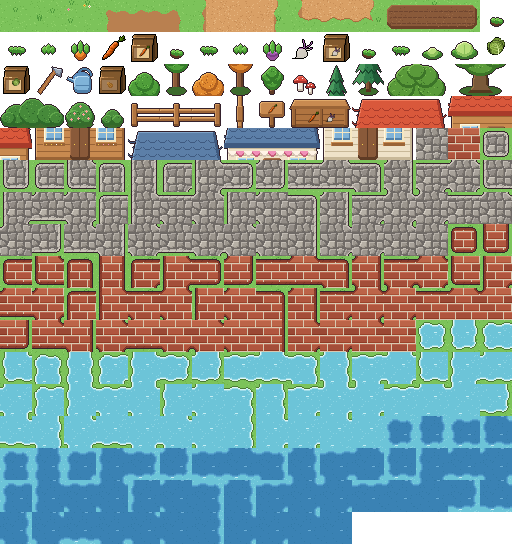
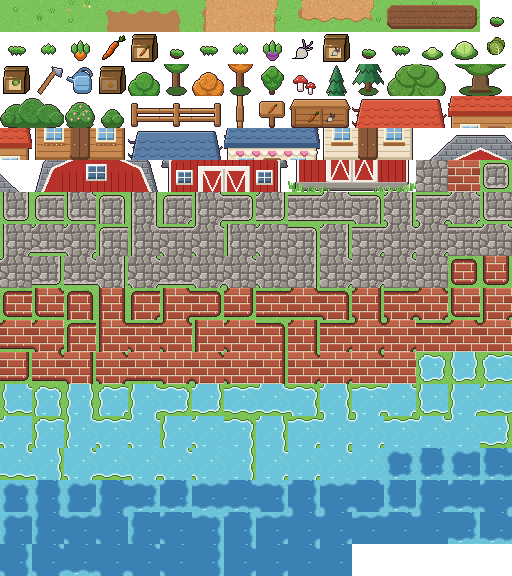
Add a red barn with white trim, grey shingles and grass tufts at its base
Claude-Session: https://claude.ai/code/session_01JZv9D8eG6iRnc3yJzRKhZf

diff --git a/src/art-index.js b/src/art-index.js
@@ -1,2 +1,2 @@
 // Generated by tools/make_art.py: tile names -> index in assets/art/world.png (16 columns of 32x32).
-export const A = {"grass0": 0, "grass1": 1, "grass2": 2, "path0": 3, "path1": 4, "path2": 5, "path3": 6, "path4": 7, "path5": 8, "path6": 9, "path7": 10, "path8": 11, "soil0": 12, "soil1": 13, "soil2": 14, "carrot0": 15, "carrot1": 16, "carrot2": 17, "carrot3": 18, "carrot_item": 19, "carrot_packet": 20, "turnip0": 21, "turnip1": 22, "turnip2": 23, "turnip3": 24, "turnip_item": 25, "turnip_packet": 26, "cabbage0": 27, "cabbage1": 28, "cabbage2": 29, "cabbage3": 30, "cabbage_item": 31, "cabbage_packet": 32, "hoe": 33, "can": 34, "bag": 35, "tree_green_0": 36, "tree_green_1": 37, "tree_orange_0": 38, "tree_orange_1": 39, "tree": 40, "mushrooms": 41, "pine_0": 42, "pine_1": 43, "oak_0": 44, "oak_1": 45, "oak_2": 46, "oak_3": 47, "shrub_large_0": 48, "shrub_large_1": 49, "shrub_flower": 50, "shrub_small": 51, "fence0": 52, "fence1": 53, "fence2": 54, "fence3": 55, "sign": 56, "bin_0": 57, "bin_1": 58, "house_0": 59, "house_1": 60, "house_2": 61, "house_3": 62, "house_4": 63, "house_5": 64, "house_6": 65, "house_7": 66, "house_8": 67, "shop_0": 68, "shop_1": 69, "shop_2": 70, "shop_3": 71, "shop_4": 72, "shop_5": 73, "shop_6": 74, "shop_7": 75, "shop_8": 76, "cobble0": 77, "brick0": 78, "cobbleb0": 79, "cobbleb1": 80, "cobbleb2": 81, "cobbleb3": 82, "cobbleb4": 83, "cobbleb5": 84, "cobbleb6": 85, "cobbleb7": 86, "cobbleb8": 87, "cobbleb9": 88, "cobbleb10": 89, "cobbleb11": 90, "cobbleb12": 91, "cobbleb13": 92, "cobbleb14": 93, "cobbleb15": 94, "cobbleb16": 95, "cobbleb17": 96, "cobbleb18": 97, "cobbleb19": 98, "cobbleb20": 99, "cobbleb21": 100, "cobbleb22": 101, "cobbleb23": 102, "cobbleb24": 103, "cobbleb25": 104, "cobbleb26": 105, "cobbleb27": 106, "cobbleb28": 107, "cobbleb29": 108, "cobbleb30": 109, "cobbleb31": 110, "cobbleb32": 111, "cobbleb33": 112, "cobbleb34": 113, "cobbleb35": 114, "cobbleb36": 115, "cobbleb37": 116, "cobbleb38": 117, "cobbleb39": 118, "cobbleb40": 119, "cobbleb41": 120, "cobbleb42": 121, "cobbleb43": 122, "cobbleb44": 123, "cobbleb45": 124, "cobbleb46": 125, "brickb0": 126, "brickb1": 127, "brickb2": 128, "brickb3": 129, "brickb4": 130, "brickb5": 131, "brickb6": 132, "brickb7": 133, "brickb8": 134, "brickb9": 135, "brickb10": 136, "brickb11": 137, "brickb12": 138, "brickb13": 139, "brickb14": 140, "brickb15": 141, "brickb16": 142, "brickb17": 143, "brickb18": 144, "brickb19": 145, "brickb20": 146, "brickb21": 147, "brickb22": 148, "brickb23": 149, "brickb24": 150, "brickb25": 151, "brickb26": 152, "brickb27": 153, "brickb28": 154, "brickb29": 155, "brickb30": 156, "brickb31": 157, "brickb32": 158, "brickb33": 159, "brickb34": 160, "brickb35": 161, "brickb36": 162, "brickb37": 163, "brickb38": 164, "brickb39": 165, "brickb40": 166, "brickb41": 167, "brickb42": 168, "brickb43": 169, "brickb44": 170, "brickb45": 171, "brickb46": 172, "shallow0": 173, "shallow1": 174, "shallow2": 175, "shallow3": 176, "shallow4": 177, "shallow5": 178, "shallow6": 179, "shallow7": 180, "shallow8": 181, "shallow9": 182, "shallow10": 183, "shallow11": 184, "shallow12": 185, "shallow13": 186, "shallow14": 187, "shallow15": 188, "shallow16": 189, "shallow17": 190, "shallow18": 191, "shallow19": 192, "shallow20": 193, "shallow21": 194, "shallow22": 195, "shallow23": 196, "shallow24": 197, "shallow25": 198, "shallow26": 199, "shallow27": 200, "shallow28": 201, "shallow29": 202, "shallow30": 203, "shallow31": 204, "shallow32": 205, "shallow33": 206, "shallow34": 207, "shallow35": 208, "shallow36": 209, "shallow37": 210, "shallow38": 211, "shallow39": 212, "shallow40": 213, "shallow41": 214, "shallow42": 215, "shallow43": 216, "shallow44": 217, "shallow45": 218, "shallow46": 219, "deep0": 220, "deep1": 221, "deep2": 222, "deep3": 223, "deep4": 224, "deep5": 225, "deep6": 226, "deep7": 227, "deep8": 228, "deep9": 229, "deep10": 230, "deep11": 231, "deep12": 232, "deep13": 233, "deep14": 234, "deep15": 235, "deep16": 236, "deep17": 237, "deep18": 238, "deep19": 239, "deep20": 240, "deep21": 241, "deep22": 242, "deep23": 243, "deep24": 244, "deep25": 245, "deep26": 246, "deep27": 247, "deep28": 248, "deep29": 249, "deep30": 250, "deep31": 251, "deep32": 252, "deep33": 253, "deep34": 254, "deep35": 255, "deep36": 256, "deep37": 257, "deep38": 258, "deep39": 259, "deep40": 260, "deep41": 261, "deep42": 262, "deep43": 263, "deep44": 264, "deep45": 265, "deep46": 266};
+export const A = {"grass0": 0, "grass1": 1, "grass2": 2, "path0": 3, "path1": 4, "path2": 5, "path3": 6, "path4": 7, "path5": 8, "path6": 9, "path7": 10, "path8": 11, "soil0": 12, "soil1": 13, "soil2": 14, "carrot0": 15, "carrot1": 16, "carrot2": 17, "carrot3": 18, "carrot_item": 19, "carrot_packet": 20, "turnip0": 21, "turnip1": 22, "turnip2": 23, "turnip3": 24, "turnip_item": 25, "turnip_packet": 26, "cabbage0": 27, "cabbage1": 28, "cabbage2": 29, "cabbage3": 30, "cabbage_item": 31, "cabbage_packet": 32, "hoe": 33, "can": 34, "bag": 35, "tree_green_0": 36, "tree_green_1": 37, "tree_orange_0": 38, "tree_orange_1": 39, "tree": 40, "mushrooms": 41, "pine_0": 42, "pine_1": 43, "oak_0": 44, "oak_1": 45, "oak_2": 46, "oak_3": 47, "shrub_large_0": 48, "shrub_large_1": 49, "shrub_flower": 50, "shrub_small": 51, "fence0": 52, "fence1": 53, "fence2": 54, "fence3": 55, "sign": 56, "bin_0": 57, "bin_1": 58, "house_0": 59, "house_1": 60, "house_2": 61, "house_3": 62, "house_4": 63, "house_5": 64, "house_6": 65, "house_7": 66, "house_8": 67, "shop_0": 68, "shop_1": 69, "shop_2": 70, "shop_3": 71, "shop_4": 72, "shop_5": 73, "shop_6": 74, "shop_7": 75, "shop_8": 76, "barn_0": 77, "barn_1": 78, "barn_2": 79, "barn_3": 80, "barn_4": 81, "barn_5": 82, "barn_6": 83, "barn_7": 84, "barn_8": 85, "barn_9": 86, "barn_10": 87, "barn_11": 88, "barn_12": 89, "barn_13": 90, "barn_14": 91, "barn_15": 92, "cobble0": 93, "brick0": 94, "cobbleb0": 95, "cobbleb1": 96, "cobbleb2": 97, "cobbleb3": 98, "cobbleb4": 99, "cobbleb5": 100, "cobbleb6": 101, "cobbleb7": 102, "cobbleb8": 103, "cobbleb9": 104, "cobbleb10": 105, "cobbleb11": 106, "cobbleb12": 107, "cobbleb13": 108, "cobbleb14": 109, "cobbleb15": 110, "cobbleb16": 111, "cobbleb17": 112, "cobbleb18": 113, "cobbleb19": 114, "cobbleb20": 115, "cobbleb21": 116, "cobbleb22": 117, "cobbleb23": 118, "cobbleb24": 119, "cobbleb25": 120, "cobbleb26": 121, "cobbleb27": 122, "cobbleb28": 123, "cobbleb29": 124, "cobbleb30": 125, "cobbleb31": 126, "cobbleb32": 127, "cobbleb33": 128, "cobbleb34": 129, "cobbleb35": 130, "cobbleb36": 131, "cobbleb37": 132, "cobbleb38": 133, "cobbleb39": 134, "cobbleb40": 135, "cobbleb41": 136, "cobbleb42": 137, "cobbleb43": 138, "cobbleb44": 139, "cobbleb45": 140, "cobbleb46": 141, "brickb0": 142, "brickb1": 143, "brickb2": 144, "brickb3": 145, "brickb4": 146, "brickb5": 147, "brickb6": 148, "brickb7": 149, "brickb8": 150, "brickb9": 151, "brickb10": 152, "brickb11": 153, "brickb12": 154, "brickb13": 155, "brickb14": 156, "brickb15": 157, "brickb16": 158, "brickb17": 159, "brickb18": 160, "brickb19": 161, "brickb20": 162, "brickb21": 163, "brickb22": 164, "brickb23": 165, "brickb24": 166, "brickb25": 167, "brickb26": 168, "brickb27": 169, "brickb28": 170, "brickb29": 171, "brickb30": 172, "brickb31": 173, "brickb32": 174, "brickb33": 175, "brickb34": 176, "brickb35": 177, "brickb36": 178, "brickb37": 179, "brickb38": 180, "brickb39": 181, "brickb40": 182, "brickb41": 183, "brickb42": 184, "brickb43": 185, "brickb44": 186, "brickb45": 187, "brickb46": 188, "shallow0": 189, "shallow1": 190, "shallow2": 191, "shallow3": 192, "shallow4": 193, "shallow5": 194, "shallow6": 195, "shallow7": 196, "shallow8": 197, "shallow9": 198, "shallow10": 199, "shallow11": 200, "shallow12": 201, "shallow13": 202, "shallow14": 203, "shallow15": 204, "shallow16": 205, "shallow17": 206, "shallow18": 207, "shallow19": 208, "shallow20": 209, "shallow21": 210, "shallow22": 211, "shallow23": 212, "shallow24": 213, "shallow25": 214, "shallow26": 215, "shallow27": 216, "shallow28": 217, "shallow29": 218, "shallow30": 219, "shallow31": 220, "shallow32": 221, "shallow33": 222, "shallow34": 223, "shallow35": 224, "shallow36": 225, "shallow37": 226, "shallow38": 227, "shallow39": 228, "shallow40": 229, "shallow41": 230, "shallow42": 231, "shallow43": 232, "shallow44": 233, "shallow45": 234, "shallow46": 235, "deep0": 236, "deep1": 237, "deep2": 238, "deep3": 239, "deep4": 240, "deep5": 241, "deep6": 242, "deep7": 243, "deep8": 244, "deep9": 245, "deep10": 246, "deep11": 247, "deep12": 248, "deep13": 249, "deep14": 250, "deep15": 251, "deep16": 252, "deep17": 253, "deep18": 254, "deep19": 255, "deep20": 256, "deep21": 257, "deep22": 258, "deep23": 259, "deep24": 260, "deep25": 261, "deep26": 262, "deep27": 263, "deep28": 264, "deep29": 265, "deep30": 266, "deep31": 267, "deep32": 268, "deep33": 269, "deep34": 270, "deep35": 271, "deep36": 272, "deep37": 273, "deep38": 274, "deep39": 275, "deep40": 276, "deep41": 277, "deep42": 278, "deep43": 279, "deep44": 280, "deep45": 281, "deep46": 282};

diff --git a/src/map-data.js b/src/map-data.js
@@ -7,7 +7,7 @@ export const EDITOR_KEY = 'farmlife-editor-map';
 
 // Multi-tile objects: size in tiles and how many bottom rows block movement (default: all rows).
 const SIZES = {
-  house: { w: 3, h: 3 }, shop: { w: 3, h: 3 }, bin: { w: 2, h: 1 },
+  house: { w: 3, h: 3 }, shop: { w: 3, h: 3 }, barn: { w: 4, h: 4, solid: 3 }, bin: { w: 2, h: 1 },
   tree_green: { w: 1, h: 2, solid: 1 }, tree_orange: { w: 1, h: 2, solid: 1 },
   pine: { w: 1, h: 2, solid: 1 }, oak: { w: 2, h: 2, solid: 1 }, shrub_large: { w: 2, h: 1 },
 };

diff --git a/tools/make_art.py b/tools/make_art.py
@@ -347,6 +347,51 @@ def building(roof, roof_l, roof_d, wall, wall_l, wall_d, awning=False):
     d.line([(47, 64), (47, 94)], C('#5f3b25')); d.point((53, 80), C('#f6d04d')); d.point((42, 80), C('#f6d04d'))
     return outline(im)
 
+def barn():  # 128x128 red gambrel barn with white trim, grey shingles behind the gable, grass tufts at its base
+    im = new(4 * S, 4 * S); d = ImageDraw.Draw(im)
+    RED, RED_L, RED_D, WH, WH_D = '#b8322c', '#d24a3e', '#86221e', '#f4efe6', '#c8c0b4'
+    # Roof slopes going back from the front gable: a bigger gambrel outline, shingled grey.
+    shape(im, lambda d: d.polygon([(2, 70), (12, 34), (40, 8), (88, 8), (116, 34), (126, 70)]), '#8a8f96', '#a8adb4', '#62676e', 3)
+    roof = {(x, y) for y in range(4 * S) for x in range(4 * S) if im.getpixel((x, y))[:3] == C('#8a8f96')[:3]}
+    for (x, y) in roof:  # shingle rows: a dark seam under each row, a light lip above it, staggered joints
+        r, k = divmod(y - 10, 6)
+        c = '#62676e' if k == 5 else '#9ea3aa' if k == 0 else '#5c6168' if (x + (r % 2) * 5) % 10 == 0 else ('#7e838a' if (x * 7 + r * 3) % 11 == 0 else None)
+        if c: im.putpixel((x, y), C(c))
+    gable = [(10, 122), (10, 64), (20, 40), (64, 20), (108, 40), (118, 64), (118, 122)]
+    shape(im, lambda d: d.polygon(gable), RED, RED_L, RED_D)
+    for x in range(16, 116, 7): d.line([(x, 44 if 24 < x < 104 else 66), (x, 121)], C(RED_D))  # vertical boards
+    for x in range(16, 116, 7):  # clip boards to the gable slope
+        for y in range(18, 66):
+            if im.getpixel((x, y))[:3] == C(RED_D)[:3] and not inside_poly(gable, x, y - 2): im.putpixel((x, y), C(RED))
+    d.line(gable[1:-1], C(WH), 3); d.line([(9, 64), (9, 122)], C(WH), 2); d.line([(118, 64), (118, 122)], C(WH), 2)  # roof trim and corner boards
+    shape(im, lambda d: d.rectangle([8, 118, 119, 125]), '#9a968e', '#b4b0a8', '#706c66', 1)  # stone footing
+    def window(x, y, w, h):
+        shape(im, lambda d: d.rectangle([x, y, x + w, y + h]), WH, '#ffffff', WH_D, 1)
+        shape(im, lambda d: d.rectangle([x + 2, y + 2, x + w - 2, y + h - 2]), '#4f6f8f', '#7fa3c0', '#33506c', 1)
+        d.line([(x + w // 2, y + 2), (x + w // 2, y + h - 2)], C(WH)); d.line([(x + 2, y + h // 2), (x + w - 2, y + h // 2)], C(WH))
+    window(54, 36, 20, 16)  # hayloft
+    window(16, 74, 16, 14); window(96, 74, 16, 14)
+    # Double doors: white frame, white X brace on each leaf.
+    shape(im, lambda d: d.rectangle([38, 70, 89, 118]), WH, '#ffffff', WH_D, 1)
+    for x0 in (41, 65):
+        shape(im, lambda d, x0=x0: d.rectangle([x0, 73, x0 + 21, 117]), RED, RED_L, RED_D, 1)
+        d.line([(x0 + 1, 74), (x0 + 20, 116)], C(WH), 2); d.line([(x0 + 20, 74), (x0 + 1, 116)], C(WH), 2)
+        d.rectangle([x0, 73, x0 + 21, 117], outline=C(WH), width=2)
+    d.line([(63, 73), (63, 117)], C(WH_D), 2)
+    outline(im)
+    # Grass tufts over the base and corners, drawn after the outline so the barn sits in the turf.
+    tr = random.Random(9)
+    def tuft(x, y, n, h):
+        for k in range(n):
+            dx = k - n // 2; c = ('#4f9a3c', '#6fc04f', '#8fd16a')[tr.randrange(3)]
+            d.line([(x + dx, y), (x + dx + (dx > 0) - (dx < 0), y - tr.randrange(h - 2, h + 1))], C(c))
+    for x, y in ((6, 127), (11, 126), (3, 124), (117, 127), (122, 126), (125, 124)): tuft(x, y, 5, 7)  # corner clumps
+    for x in list(range(15, 37, 4)) + list(range(92, 114, 4)): tuft(x + tr.randrange(-1, 2), 127, 3, 5)  # along the footing
+    for x in (40, 87): tuft(x, 127, 3, 3)  # a little at the door posts, doorway kept clear
+    return im
+def inside_poly(pts, x, y):
+    m = Image.new('L', (4 * S, 4 * S)); ImageDraw.Draw(m).polygon(pts, 255); return m.getpixel((x, y)) > 0 if 0 <= y < 4 * S else False
+
 # ---------- characters ----------
 SKIN, SKIN_L, SKIN_D = '#f5c7a0', '#ffdcc0', '#d99a78'
 def eye(d, p, ex, out):
@@ -445,6 +490,7 @@ add('fence3', fence_v())
 add('sign', sign()); add('bin', bin_())
 add('house', building('#d9583b', '#f07a5a', '#a83a2a', '#c88a50', '#e0a96a', '#9a6436'))
 add('shop', building('#5c7fa8', '#7fa3c8', '#3f5a80', '#efe2c8', '#fff4dc', '#c8b898', awning=True))
+add('barn', barn())
 COB, BRK, SHAL, DEEP = cobble_tex(), brick_tex(), water_tex('#6cc4d8', '#86d2e2', '#c4eef4'), water_tex('#3a82b4', '#327aa8', '#6eb0d8')
 add('cobble0', COB); add('brick0', BRK)
 blob_set('cobbleb', COB, grass(0), 'kerb'); blob_set('brickb', BRK, grass(0), 'kerb', (C('#8a3c2c'), C('#7a3426')))
